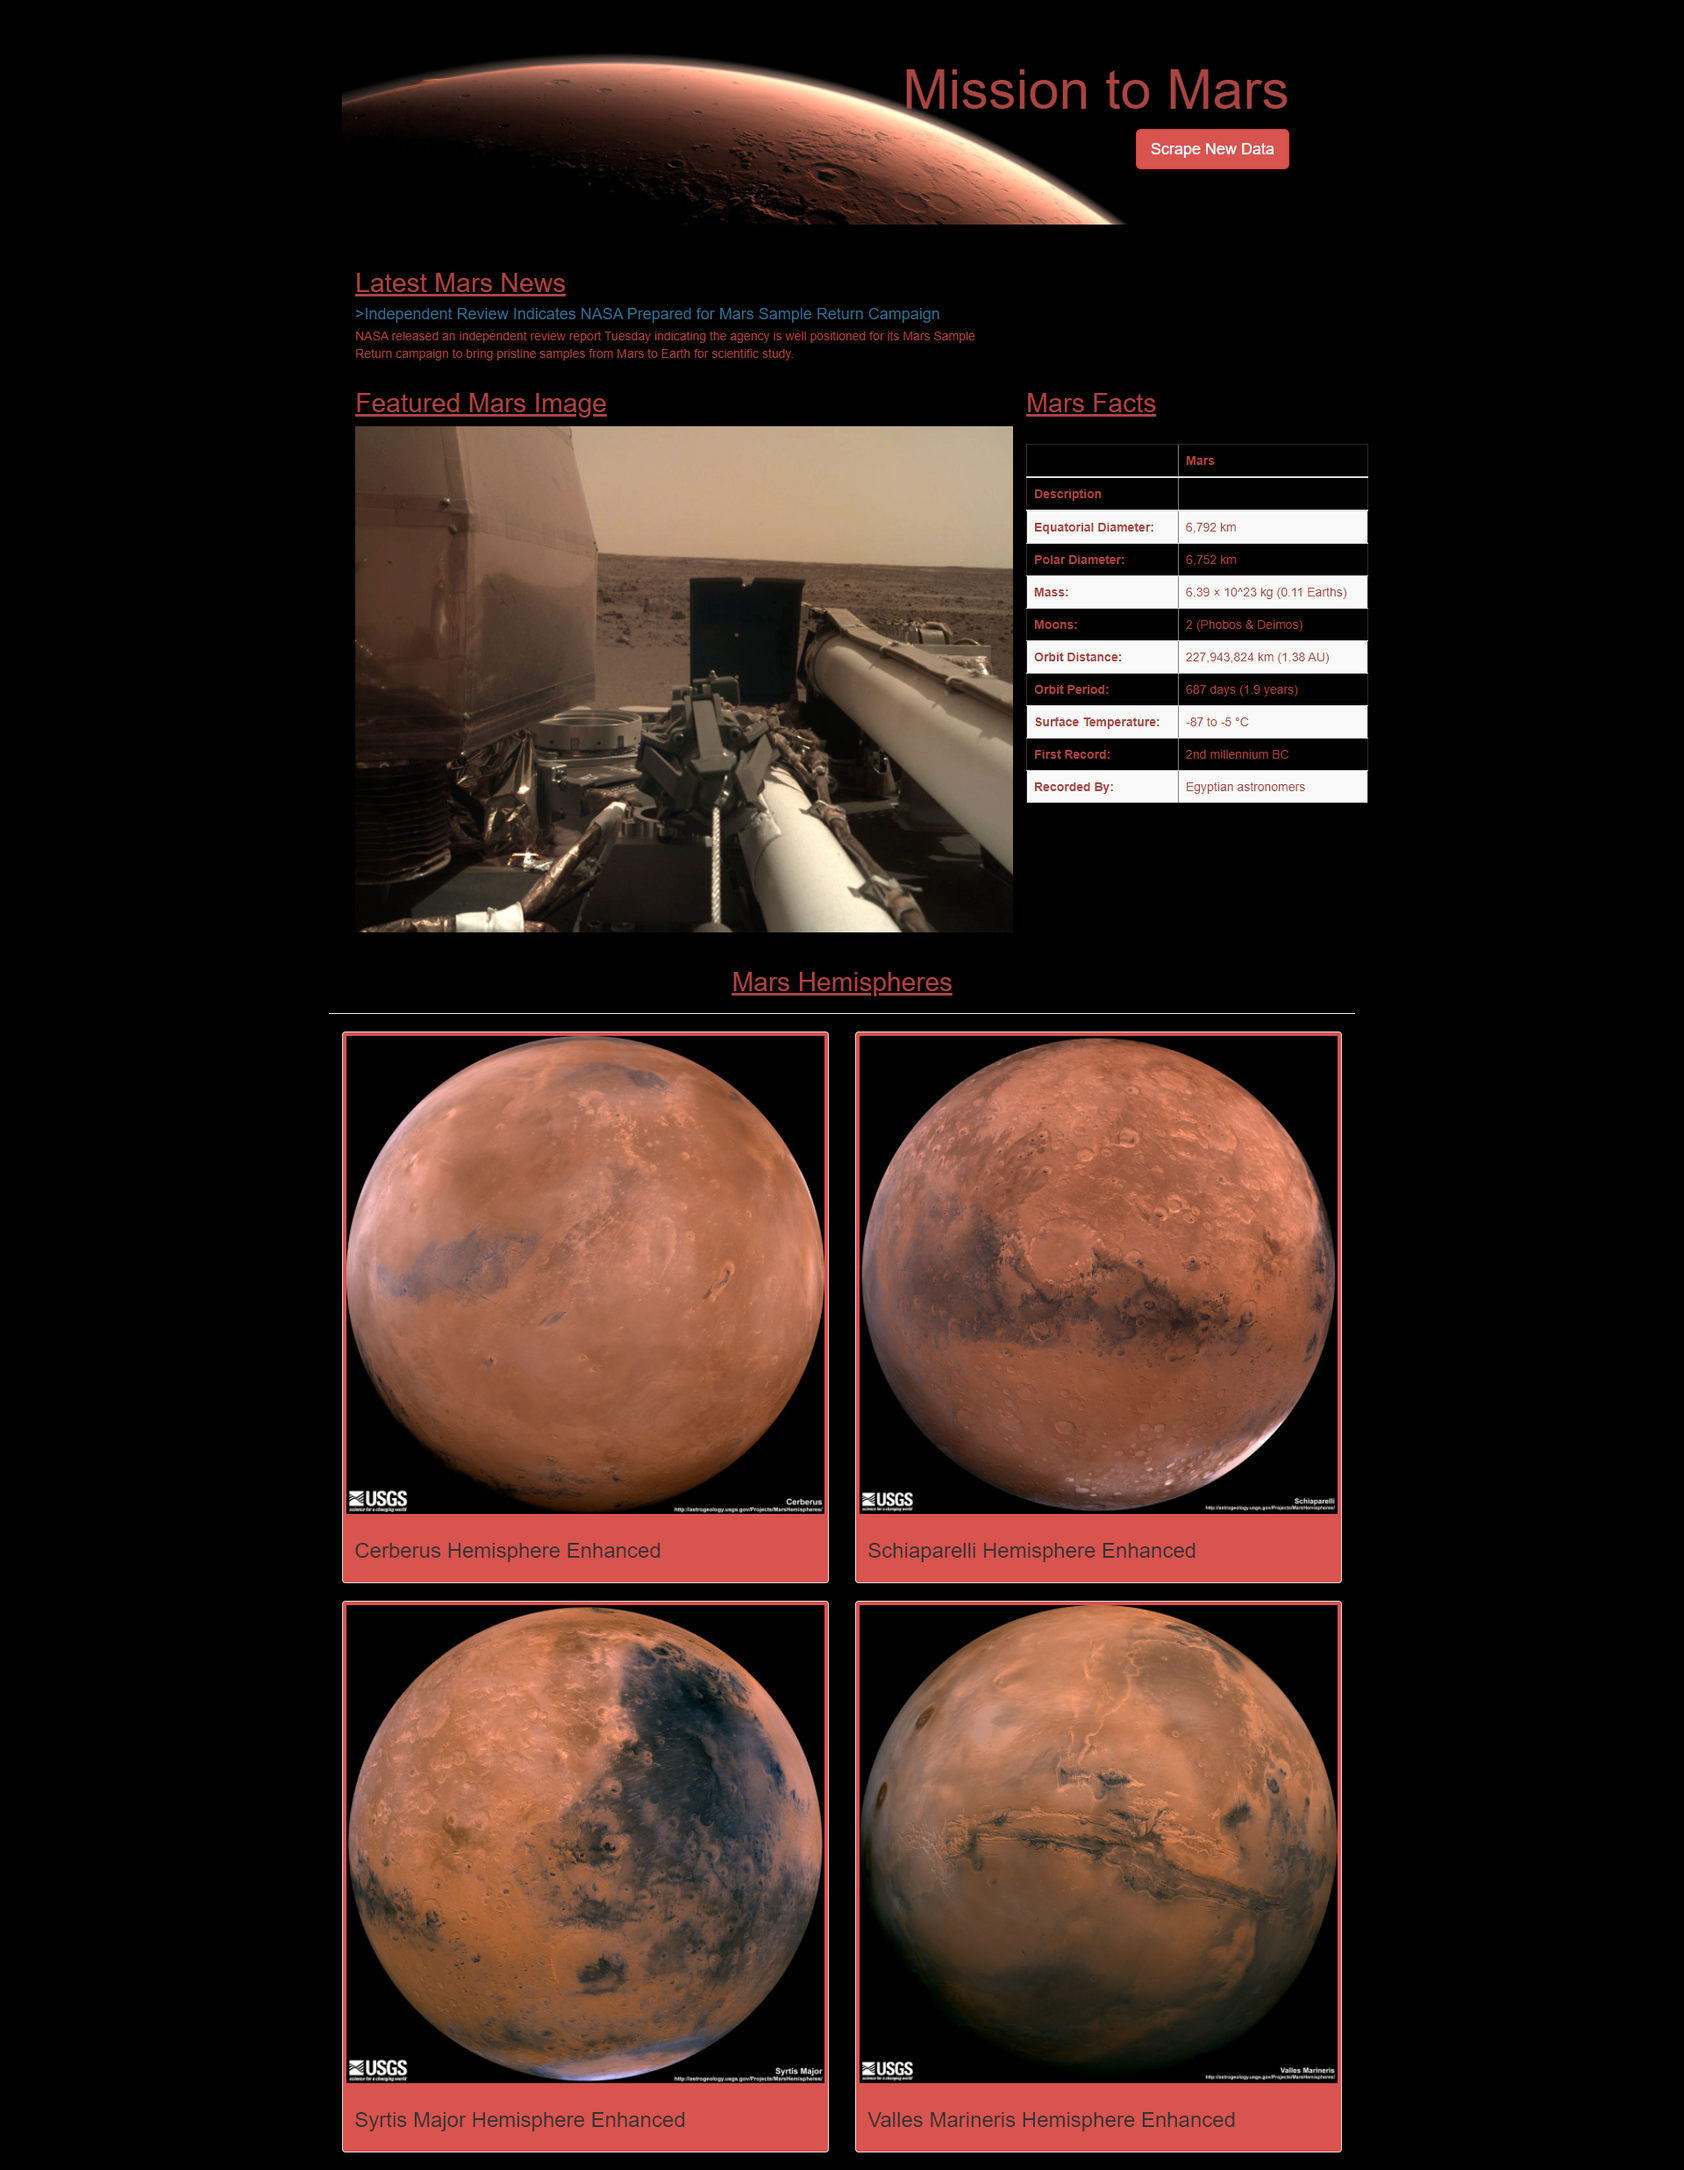
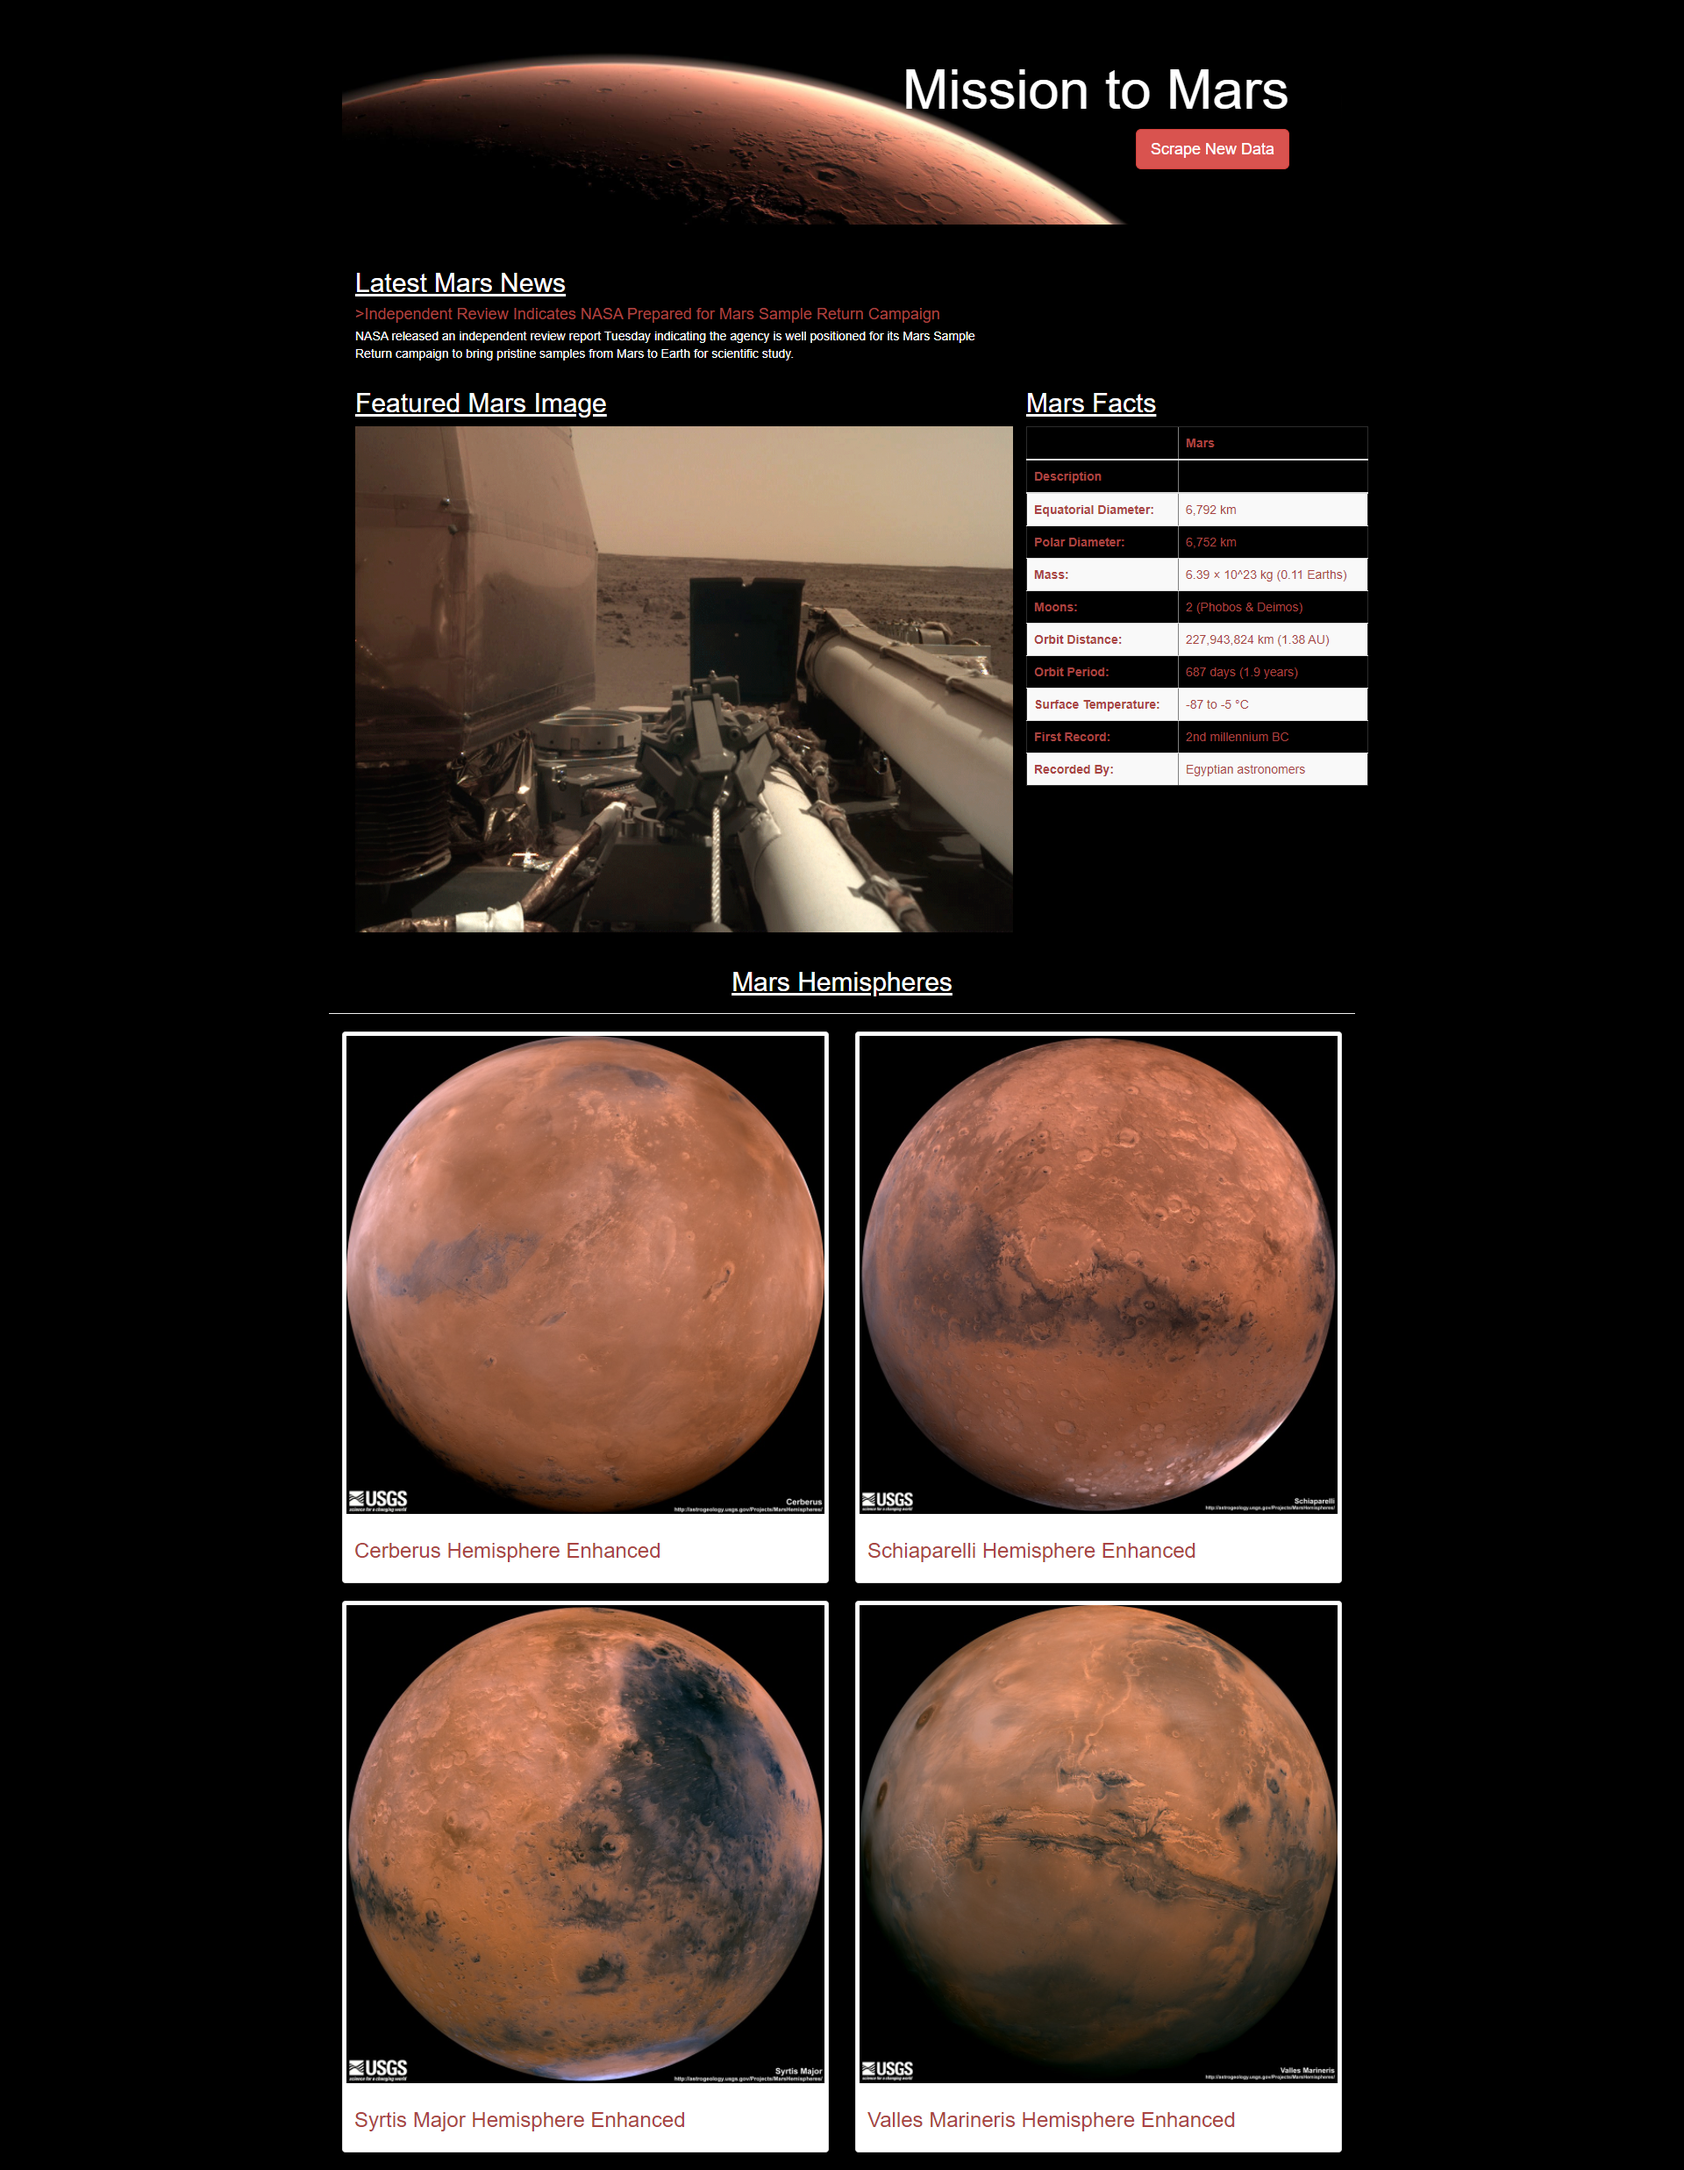
Changes to page colors

diff --git a/templates/index.html b/templates/index.html
@@ -10,8 +10,8 @@
   <body class="text-danger" style="background-color: black;">
     <div class="container">
       <!-- Add Jumbotron to Header-->
-      <div class="jumbotron text-right" style="background-image: url(https://cdn.theatlantic.com/static/mt/assets/science/0831Pic.jpg); background-size: 100%; height: 100%">
-        <h1 class="text-shadow">Mission to Mars</h1>
+      <div class="jumbotron text-right" style="background-image: url(https://cdn.theatlantic.com/static/mt/assets/science/0831Pic.jpg); color: white; background-size: 100%; height: 100%">
+        <h1 style="color: white">Mission to Mars</h1>
         <!-- Add a button to activate scraping script -->
         <p><a class="btn btn-lg btn-danger" href="/scrape" role="button">Scrape New Data</a></p>
       </div>
@@ -21,9 +21,9 @@
           <div class="col-lg-8 col-md-8 col-sm-12">
             <div class="media">
               <div class="media-body">
-                <h2><u>Latest Mars News</u></h2>
-                <h4 class="media-heading text-info">>{{mars.news_title}}</h4>
-                <p>{{mars.news_paragraph}}</p>
+                <h2 style="color: white"><u>Latest Mars News</u></h2>
+                <h4 class="media-heading text-danger">>{{mars.news_title}}</h4>
+                <p style="color: white">{{mars.news_paragraph}}</p>
               </div> 
             </div>
           </div>
@@ -33,14 +33,14 @@
       <div class="container">
         <div class="row" id="mars-featured-image">
           <div class="col-lg-8 col-md-8 col-xs-12">
-            <h2><u>Featured Mars Image</u></h2>
+            <h2 style="color: white"><u>Featured Mars Image</u></h2>
             <img src="{{ mars.featured_image }}" class="img-responsive" alt="Responsive image">
           </div>
           <!-- Mars Facts -->
           <div class="col-lg-4 col-md-4 col-xs-12">
-            <div class="row" id="mars-facts">
-            <h2><u>Mars Facts</u></h2>
-              <table class="table table-bordered table-responsive-md table-striped">
+            <div class="row text-danger" id="mars-facts">
+            <h2 style="color: white"><u>Mars Facts</u></h2>
+              <table class="text-danger">
                 {{ mars.facts | safe }}
               </table>
             </div>
@@ -50,14 +50,14 @@
       <!-- Section for Mars Hemispheres -->
       <div class="row" id="mars-hemispheres">
         <div class="page-header">
-          <h2 class="text-center"><u>Mars Hemispheres</u></h2>
+          <h2 class="text-center" style="color: white"><u>Mars Hemispheres</u></h2>
         </div>
         {% for hemisphere in mars.hemispheres %}
         <div class="col-lg-6 col-md-6 col-xs-6">
-          <div class="thumbnail" style="background-color: #d9534f">
+          <div class="thumbnail" style="background-color: white">
             <img src="{{hemisphere.img_url | default('static/images/error.png', true)}}" alt="...">
             <div class="caption">
-              <h3 class="text-black">{{hemisphere.title}}</h3>
+              <h3 class="text-danger">{{hemisphere.title}}</h3>
             </div>
           </div>
         </div>
